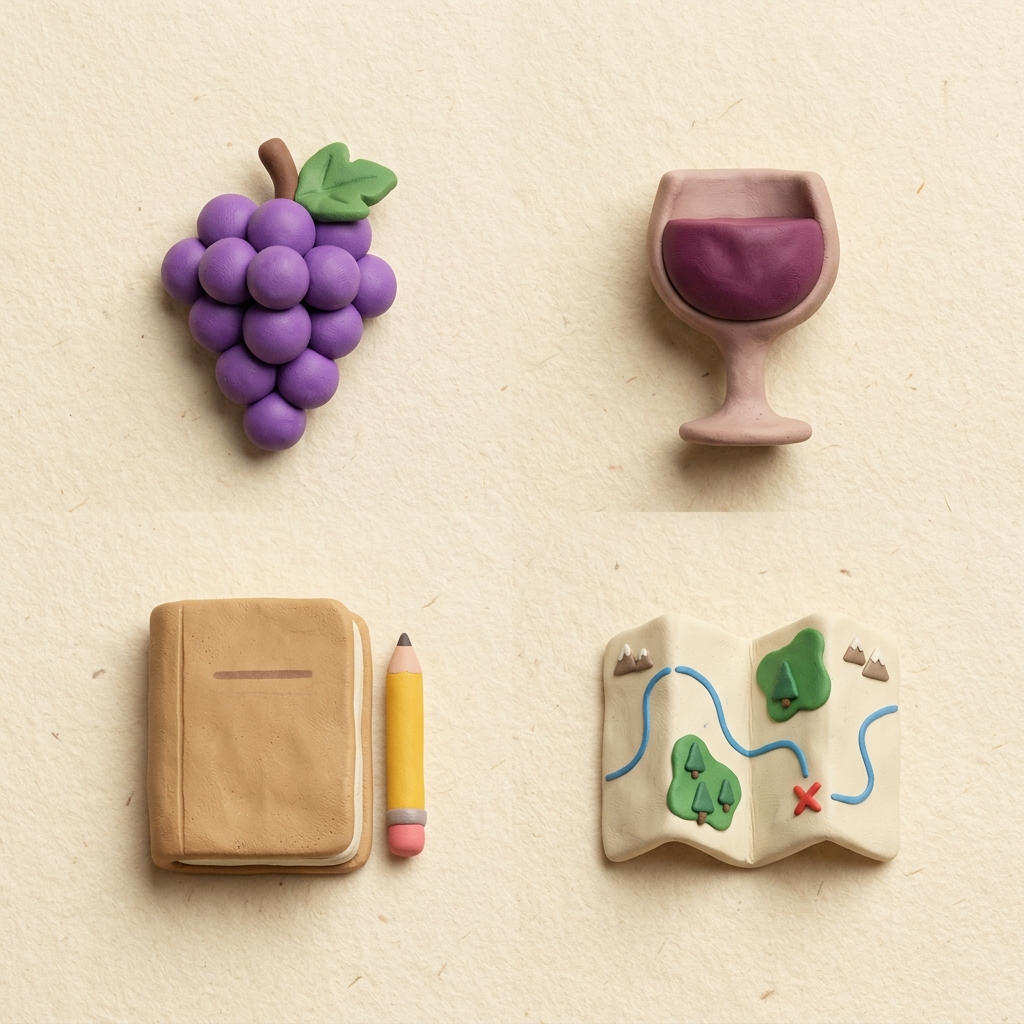
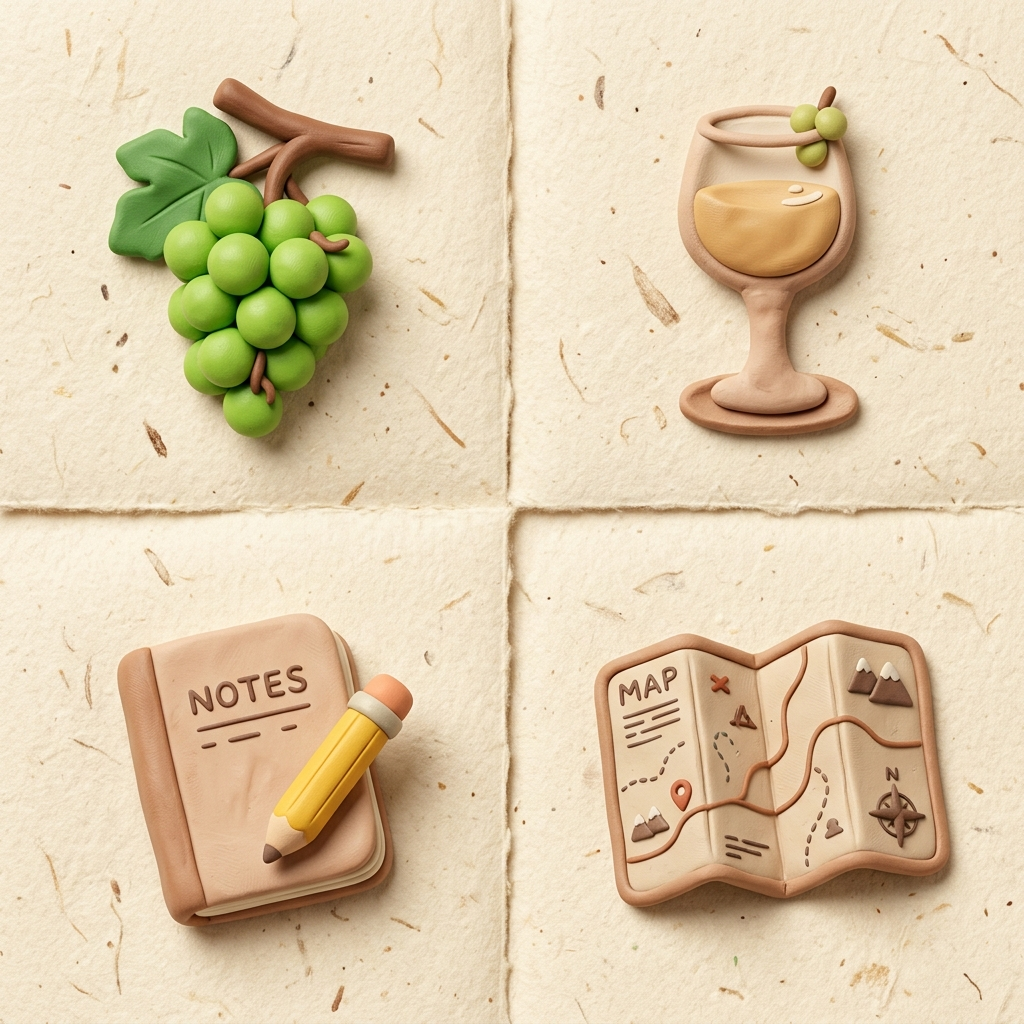
Switch to green-grape clay assets and fix centered jitter animation
Updated background/icon assets to the green-grape Mumu clay variant with
matching saturation/contrast filters, swapped wine emoji for champagne/leaf,
and gave horizontally-centered elements their own jitter keyframes so the
translateX(-50%) centering isn't clobbered by the animation.

diff --git a/index.html b/index.html
@@ -87,6 +87,7 @@
       object-fit: cover;
       object-position: center 40%;
       transition: filter 0.7s ease, transform 8s ease;
+      filter: saturate(0.68) contrast(0.96);
     }
 
     .paper-overlay {
@@ -138,6 +139,14 @@
       75% { transform: translate(-0.08vw, -0.08vw) rotate(-0.4deg) scaleX(0.995); }
     }
 
+    /* Jitter animation for horizontally-centered elements */
+    @keyframes stop-motion-jitter-centered {
+      0%, 100% { transform: translateX(-50%) translate(0, 0) rotate(0deg); }
+      25% { transform: translateX(-50%) translate(-0.06vw, 0.08vw) rotate(-0.6deg) scaleX(1.005); }
+      50% { transform: translateX(-50%) translate(0.08vw, -0.06vw) rotate(0.6deg) scaleY(0.995); }
+      75% { transform: translateX(-50%) translate(-0.08vw, -0.08vw) rotate(-0.4deg) scaleX(0.995); }
+    }
+
     /* Warm vignette over background only */
     .bg-stack::after {
       content: '';
@@ -160,7 +169,7 @@
       transition: opacity 0.7s ease, transform 0.7s var(--ease-bounce);
       pointer-events: none;
       z-index: 8;
-      filter: drop-shadow(0.8vw 1.1vw 0 var(--clay-brown));
+      filter: drop-shadow(0.8vw 1.1vw 0 var(--clay-brown)) saturate(0.75);
     }
     #building.visible {
       opacity: 1;
@@ -191,6 +200,7 @@
       padding: 0.55vw 1.5vw;
       text-align: center;
       box-shadow: var(--clay-shadow-puffy);
+      filter: saturate(0.78);
     }
     .sign-cn {
       font-size: 1.3vw; font-weight: 800; letter-spacing: 0.15em;
@@ -254,11 +264,12 @@
       min-width: 22vw;
       transition: opacity 0.45s ease, transform 0.45s var(--ease-bounce);
       z-index: 20;
+      filter: saturate(0.78);
     }
     #discovery-card.visible {
       opacity: 1;
       transform: translateX(-50%) translateY(0) scale(1);
-      animation: stop-motion-jitter 2.2s steps(4) infinite;
+      animation: stop-motion-jitter-centered 2.2s steps(4) infinite;
     }
     .card-icon-wrap {
       width: 4.5vw; height: 4.5vw;
@@ -301,6 +312,7 @@
         0 0.5vw 0 var(--clay-brown),
         0 0.2vw 0.6vw rgba(74, 48, 32, 0.15),
         inset 0.15vw 0.15vw 0.3vw rgba(255,255,255,0.6);
+      filter: saturate(0.75);
     }
     #ic-grape { background-position: 0% 0%; }
     #ic-wine  { background-position: 100% 0%; }
@@ -343,6 +355,7 @@
       width: 100%; height: 100%;
       object-fit: cover;
       object-position: center;
+      filter: saturate(0.68) contrast(0.96);
     }
 
     .shu-sheng-stage-wrap {
@@ -428,7 +441,7 @@
     .shu-sheng-name-tag.visible {
       opacity: 1;
       transform: translateX(-50%) translateY(0);
-      animation: stop-motion-jitter 1.5s steps(4) infinite;
+      animation: stop-motion-jitter-centered 1.5s steps(4) infinite;
     }
     .shu-sheng-name-tag span {
       color: var(--clay-mustard);
@@ -460,6 +473,7 @@
       padding: 0.5vw 1.6vw 0.5vw 0.75vw;
       box-shadow: var(--clay-lift);
       transition: opacity 0.45s ease, transform 0.45s var(--ease-bounce);
+      filter: saturate(0.78);
     }
     .kw-row.visible {
       opacity: 1;
@@ -501,11 +515,12 @@
       padding: 0.65vw 2.2vw;
       box-shadow: var(--clay-lift);
       white-space: nowrap;
+      filter: saturate(0.78);
     }
     #scene-text.visible {
       opacity: 1;
       transform: translateX(-50%) translateY(0);
-      animation: stop-motion-jitter 2.5s steps(4) infinite;
+      animation: stop-motion-jitter-centered 2.5s steps(4) infinite;
     }
 
     /* ─── FOLD OVERLAY ────────────────────────────── */
@@ -529,7 +544,7 @@
       box-shadow: inset 0 -3px 0 rgba(74, 48, 32, 0.1);
     }
     #fold-top::after {
-      content: '🍷';
+      content: '🥂';
       position: absolute;
       bottom: 20%; left: 50%;
       transform: translateX(-50%);
@@ -543,7 +558,7 @@
       box-shadow: inset 0 3px 0 rgba(74, 48, 32, 0.1);
     }
     #fold-bottom::after {
-      content: '🍇';
+      content: '🍃';
       position: absolute;
       top: 20%; left: 50%;
       transform: translateX(-50%);
@@ -748,7 +763,7 @@
     <div class="final-title">Why Shu-Sheng Winery Matters</div>
     <div class="final-subtitle">A local survival model of Waipu's wine industry</div>
     <button class="btn-start" id="btn-start">Start Presentation →</button>
-    <div class="final-deco">🍇 🍷 🍇 🍷 🍇 🍷 🍇</div>
+    <div class="final-deco">🥂 🍃 🥂 🍃 🥂 🍃 🥂</div>
   </div>
 
   <div id="progress">

diff --git a/scripts/copy_assets.py b/scripts/copy_assets.py
@@ -2,14 +2,13 @@ import shutil
 import os
 
 def copy_files():
-    # Source paths (from artifact directory)
     src_dir = "/Users/yu1025/.gemini/antigravity/brain/51cde15d-6077-42ea-a5ef-513374a2c518"
     
     mapping = {
-        "bg_main_scene_mumu_1780733445944.png": "assets/bg-main-scene.png",
-        "bg_spotlight_winery_mumu_1780733464853.png": "assets/bg-spotlight-winery.png",
-        "clay_winery_building_mumu_1780733482377.png": "assets/clay-winery-building.png",
-        "clay_icons_sheet_mumu_1780733500943.png": "assets/clay-icons-sheet.png"
+        "bg_main_scene_mumu_green_grapes_1780738042168.png": "assets/bg-main-scene.png",
+        "bg_spotlight_winery_mumu_green_grapes_1780738063627.png": "assets/bg-spotlight-winery.png",
+        "clay_winery_building_mumu_green_grapes_1780738083071.png": "assets/clay-winery-building.png",
+        "clay_icons_sheet_mumu_green_grapes_1780738102117.png": "assets/clay-icons-sheet.png"
     }
     
     for src_name, dst_relative in mapping.items():
@@ -18,7 +17,7 @@ def copy_files():
         print(f"Copying {src_path} -> {dst_path}")
         shutil.copy(src_path, dst_path)
         
-    print("All background and UI assets copied successfully.")
+    print("All green grape clay background and UI assets copied successfully.")
 
 if __name__ == "__main__":
     copy_files()
